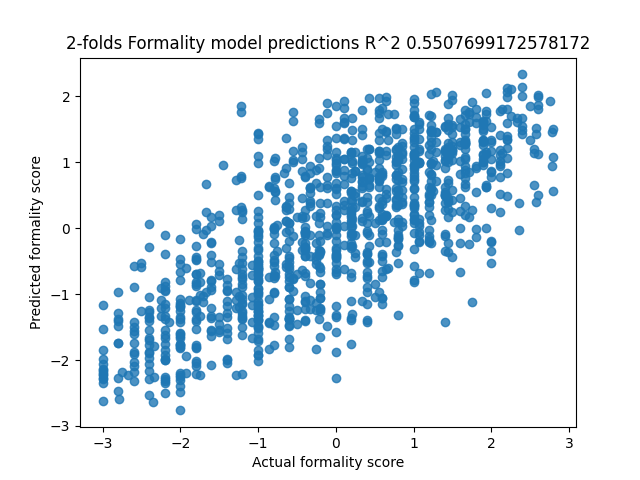
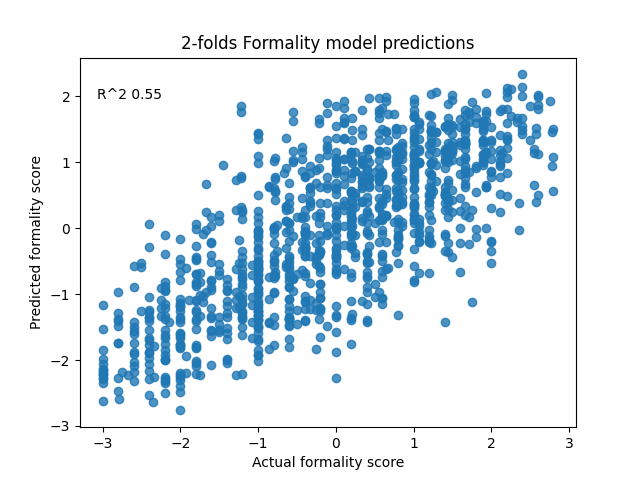
SpearmanR added

Changed region(s): [[0.0938, 0.0625, 0.9375, 0.125], [0.1562, 0.1875, 0.25, 0.2188]]

diff --git a/formality_model/model.py b/formality_model/model.py
@@ -1,5 +1,6 @@
 import matplotlib.pyplot as plt
 import pandas as pd
+from scipy.stats import spearmanr
 from sentence_transformers import SentenceTransformer
 import statsmodels.api as sm
 from sklearn.model_selection import KFold, StratifiedKFold
@@ -33,6 +34,7 @@ class BetaRegression:
         self.config = config
         self.best_model = None
         self.best_fit = -1
+        self.best_spearmanr = -3
         self.history = {}
 
     
@@ -86,6 +88,11 @@ class BetaRegression:
                 print(f"R^2 score of: {fit_val}")
                 curr_best_fit = fit_val
                 curr_best_model = binom_fit_model
+
+            spearman = self.get_spearmanr(binom_fit_model, y_test, X_test)
+            if spearman > self.best_spearmanr:
+                self.best_spearmanr = spearman
+                print(f"Best Spearman R is {spearman}")
         
         self.best_fit = curr_best_fit
         self.best_model = curr_best_model
@@ -97,8 +104,16 @@ class BetaRegression:
         """Return R^2 value of model to compare goodness of fit."""
         y_predicted = model.get_prediction(X)
         pred_vals = y_predicted.summary_frame()["mean"]
-        fit_val = r2_score(y_true, pred_vals)
-        return fit_val
+        r2 = r2_score(y_true, pred_vals)
+        return r2
+
+
+    def get_spearmanr(self, model, y_true, X):
+        """Return the spearmanr of model to compare goodness of fit."""
+        y_predicted = model.get_prediction(X)
+        pred_vals = y_predicted.summary_frame()["mean"]
+        spearman = spearmanr(y_true, pred_vals)
+        return spearman.correlation
 
     
     def plot_predictions(self, model, y_true, X, k):
@@ -111,13 +126,15 @@ class BetaRegression:
         y_true = (y_true * 6) - 3
         
 
-        plt.scatter(y_true, pred_vals, alpha=0.8)
-        plt.xlabel("Actual formality score")
-        plt.ylabel("Predicted formality score")
-        plt.title(f"{k}-folds Formality model predictions R^2 {self.history[k]}")
+        fig, ax = plt.subplots()
+        ax.scatter(y_true, pred_vals, alpha=0.8)
+        ax.set_xlabel("Actual formality score")
+        ax.set_ylabel("Predicted formality score")
+        ax.set_title(f"{k}-folds Formality model predictions")
+        ax.text(0.1, 0.9, f"R^2 {self.history[k]:.2f}", ha='center', va='center', transform=ax.transAxes)
 
-        plt.savefig(f"figs/{k}_formality_model_predictions.png")
-        plt.clf()
+        fig.savefig(f"figs/{k}_formality_model_predictions.png")
+        # fig.clf()
 
 
     # TO DO: Get sentence associated with test set and their predictions
